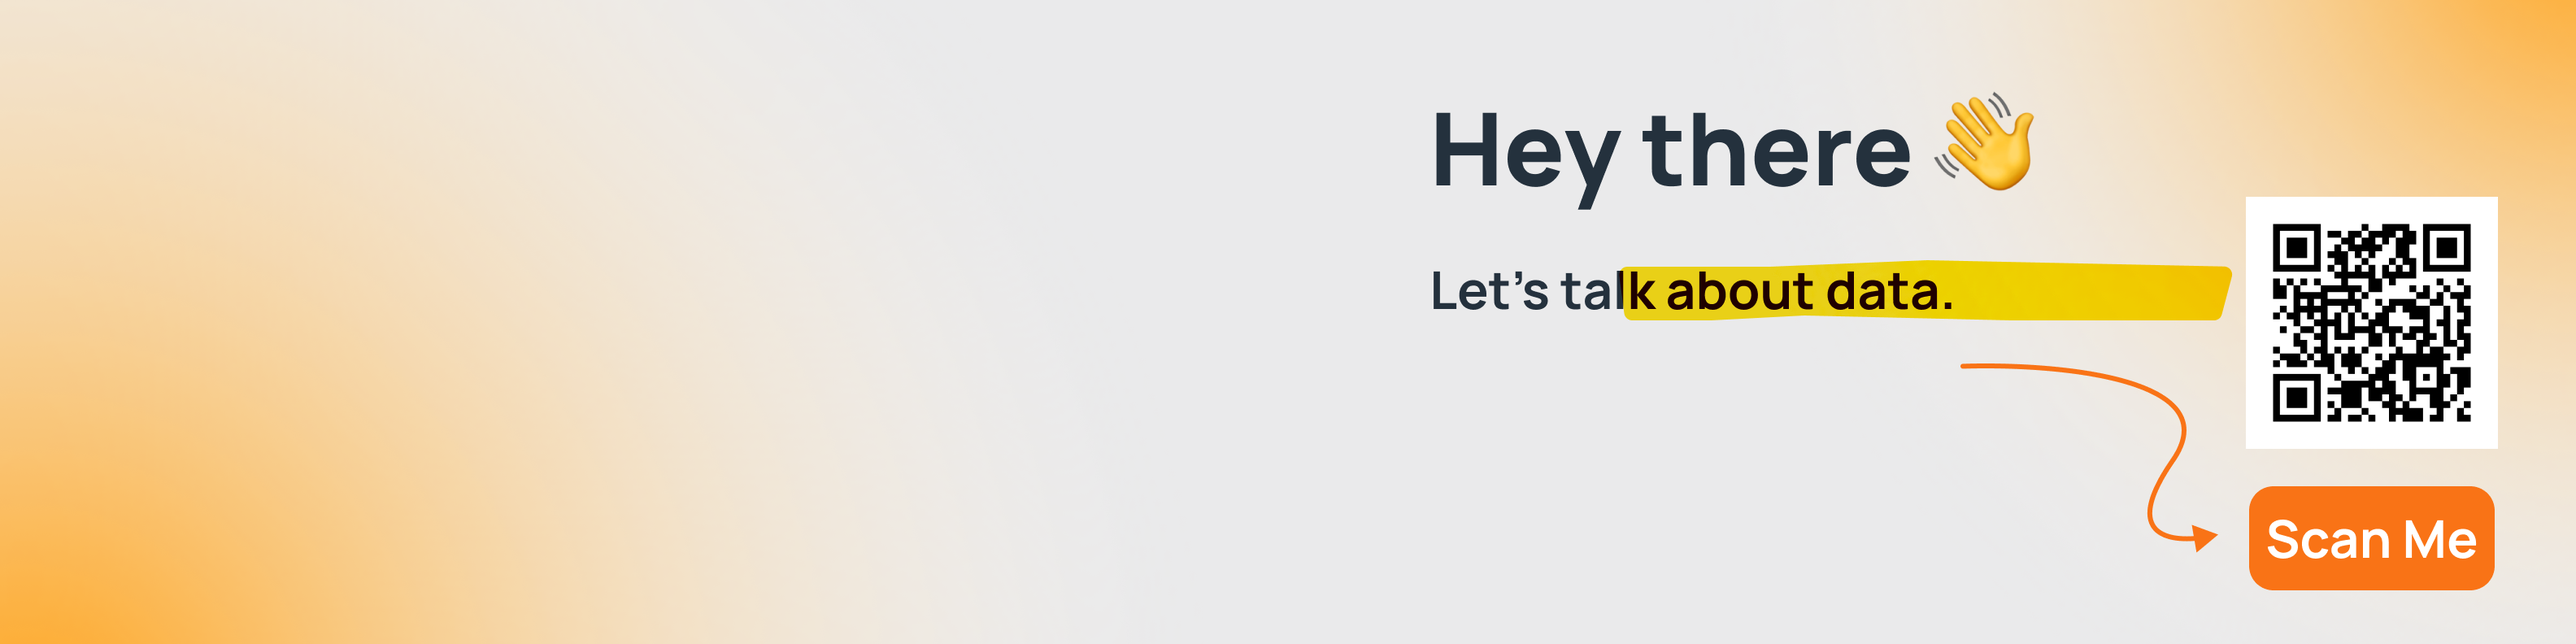
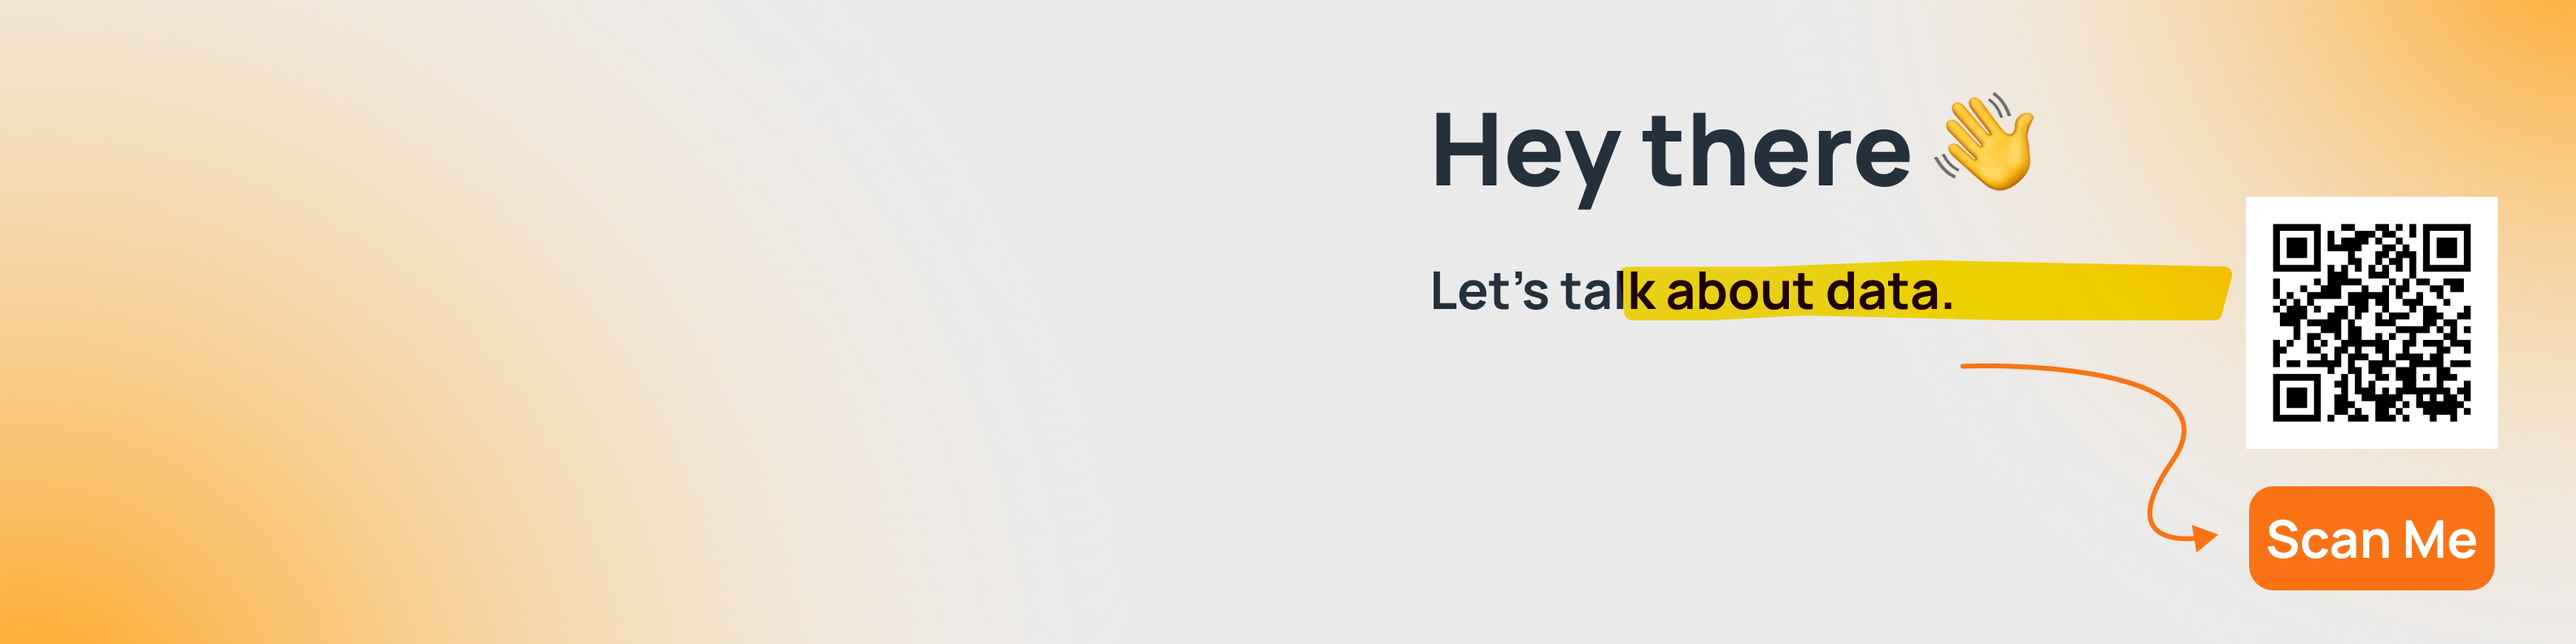
website

Changed region(s): [[0.875, 0.3333, 0.9688, 0.6667]]

diff --git a/code/python.py b/code/python.py
@@ -1,13 +1,12 @@
 import qrcode
 from pathlib import Path
 
-url = "https://github.com/muchammadwr"
-output_path = Path(
-    r"C:\Users\asusa\OneDrive\Dokumen\muchammadwr\images\github_qr.png"
-)
+url = "https://muchammadwr.my.canva.site/"
+
+output_path = Path.cwd() / "images" / "github_qr.png"
 output_path.parent.mkdir(parents=True, exist_ok=True)
 
 qr = qrcode.make(url)
 qr.save(output_path)
 
-print(f"QR Code Success save at: {output_path}")
+print(f"QR Code successfully saved at: {output_path.resolve()}")
